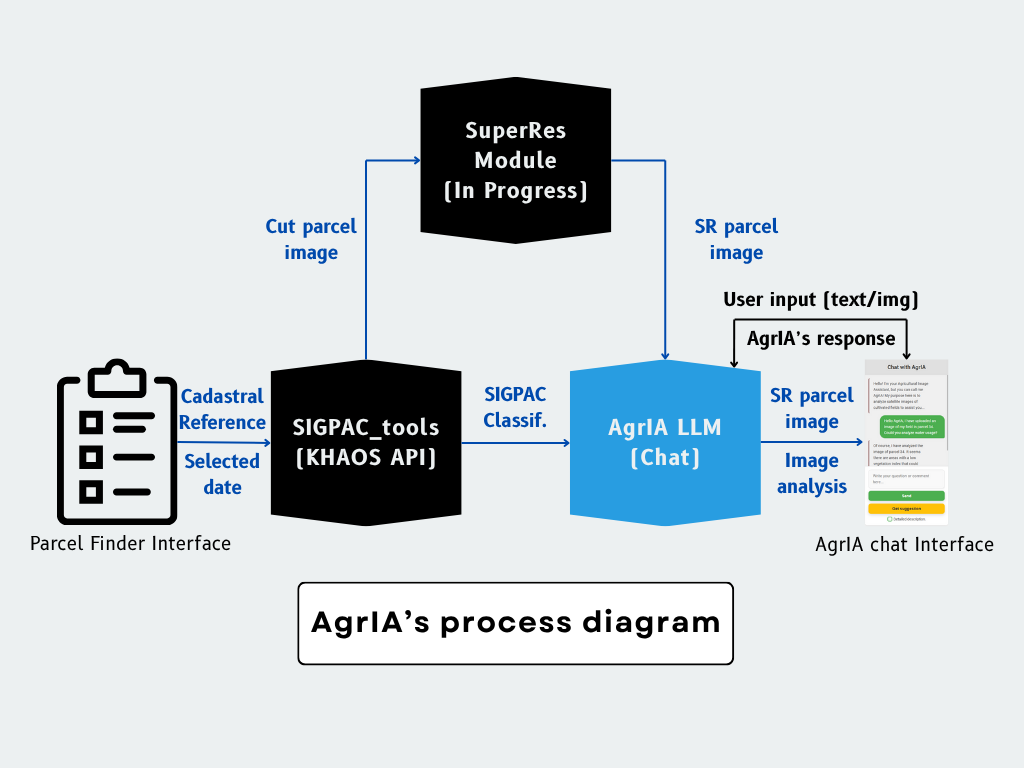
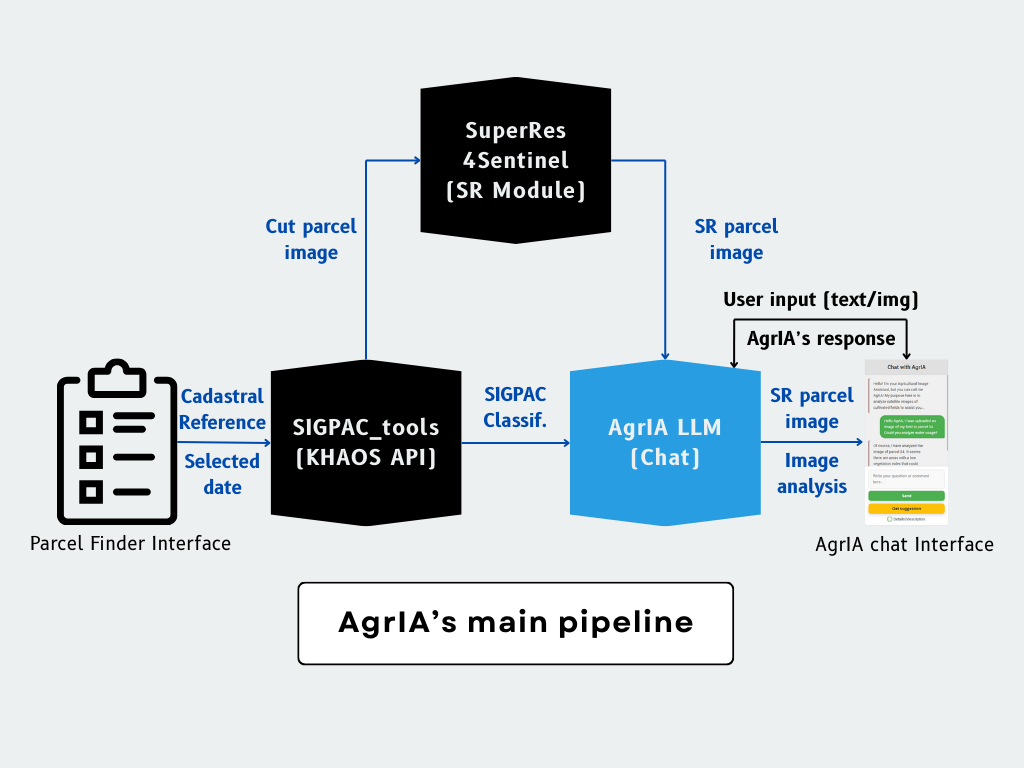
Updated README + CHANGELOG + Added img assets

Changed region(s): [[0.3125, 0.7812, 0.7188, 0.8438], [0.4375, 0.1875, 0.5625, 0.2812]]

diff --git a/README.md b/README.md
@@ -1,10 +1,20 @@
 # Agricultural Imaging Assistant (AgrIA)
 
 <div align="center">
-  <img src="./AgrIA_UI/public/img/logo.png" alt="AgrIA Logo" width="300"/>
+  <img src="./assets/img/logo.png" alt="AgrIA Logo" width="300"/>
 </div>
 
-The Agricultural Imaging Assistant (AgrIA) is an AI-powered tool that combines image analysis and classification with real time LLM commentary and interaction. Its main purpose is to assess crop satellite images and help farmers and landowners qualify for Common Agriculture Policies subventions. It leverages an Angular-based frontend and a FLAS Python server logic along with access to Google's Gemini LLM provided an API key.
+The Agricultural Imaging Assistant (AgrIA) is an AI-powered tool that combines image analysis and classification with real time LLM commentary and interaction. Its main purpose is to assess crop satellite images and help farmers and landowners qualify for EU's Common Agriculture Policies subventions. 
+
+It leverages an Angular-based frontend and a FLASK Python server logic along with access to Google's Gemini LLM provided an API key and a Super-Resolution module for improved image visualization.
+
+## Main features:
+- **Parcel Location:** Automatically find your parcel by simply using its cadastral reference, address or drawing/locating it in the map interface.
+- **Image Super-Resolution:** Improved 10m/px image resolution up to 5m/px thanks to the [SuperRes4Sentinel](https://github.com/MiguelPadillaR/SuperRes4Sentinel.git) implementation of a [L1BSR](https://github.com/centreborelli/L1BSR) pre-trained model.
+- **Satellite Image Analysis:** Get an accurate description of your fields from Sentinel satellite images that provide a detailed view of the terrain.
+- **Resource Analysis:** Receive personalized recommendations for efficient space utilization, crop species, and other resources.
+- **CAP Advisory:** Get expert guidance on how to meet Common Agricultural Policy subsidy criteria.
+- **Interactive Support:** Interact with AgrIA through chat and receive updated answers about your crops.
 
 ## Requirements:
 In order to run `AgrIA` properly, you will need the following:
@@ -12,13 +22,6 @@ In order to run `AgrIA` properly, you will need the following:
 - `Conda` package manager (installment guide available at [conda.io](https://docs.conda.io/projects/conda/en/latest/user-guide/install/index.html)).
 - `Node.js` and `npm` (download tutorial available at [npmjs.com](https://docs.npmjs.com/downloading-and-installing-node-js-and-npm)).
 - `Angular CLI` (easy to get if you have `npm` by just using `npm install -g @angular/cli`).
-
-## Main features:
-- **Parcel Location**: Automatically find your parcel by simply using its cadastral reference.
-- **Satellite Image Analysis**: Get an accurate description of your fields from Sentinel satellite images that provide a detailed view of the terrain.
-- **Resource Analysis**: Receive personalized recommendations for efficient space utilization, crop species, and other resources.
-- **CAP Advisory**: Get expert guidance on how to meet Common Agricultural Policy subsidy criteria.
-- **Interactive Support**: Interact with AgrIA through chat and receive updated answers about your crops.
 
 ## Quickstart:
 ### Cloning this repository:
@@ -39,34 +42,47 @@ cd AgrIA_UI
 npm install
 ng serve
 ```
-3. Setup and run the backend:
+3. Open a new terminal window to setup and run the backend:
 ```bash
-cd AgrIA_server
-conda env create -f environment.yml
+cd /AgrIA_server
+conda env create -f environment.yml -y
 conda activate agria_server_env
 python run.py
 ```
 Everything should be up and running at `http://localhost:4200`, which is the default port. If you are using another one (by running `ng serve XXXX`), make sure to update the `AgrIA_server/.env` file.
 
-## AgrIA's process:
-This diagram details the dataflow throughtout AgrIA`s processes, from user input to image analysis and classification:
+## AgrIA's pipeline:
+In order to find the parcel, users have 3 options:
+- **Use Cadastral data:** Only the cadastrals code is required. AgrIA will retrieve the parcel's image and metadata with crop info.
+- **Use Location data:** Fill out the address input fields (provinde, municipality, etc...) and Agria will automatically fetch the necessary data.
+- **Use Geographical data:** Whether the user clicks on their parcel and uses the coordinates or draws the outlines on the map, AgrIA will return the image, but **it will not automatically get the crop classification data. The user must manually fill out that information** before retrieving the parcel's image.
+
+The following diagram details AgrIA`s parcel finding pipeline when both image and metadata are returned.:
 
 <img src="./assets/img/AgrIA_diagram.png" alt="AgrIA's process Diagram" style="display: block; margin-left: auto; margin-right: auto;">
 
 ### Diagram explanation
-1. User provides the cadastral reference code and selects the date they want the image to be taken from.
+1. User provides the cadastral reference code/parcel location data and selects the date they want the image to be taken from.
+
 2. These two parameters are passed to the `sigpac_tools` API:
     - The API finds the parcel and gets the GeoJSON geometry and its metadata.
-    - The geometry is used to locate the parcel in the dowloaded Sentinel tiles available for the selected date and returns a cut image of the parcel.
-    - The metadata contains the SIGPAC crop classification that is formatted into a prompt for the AgrIA model.
-3. The cut image of the parcel is passed to the SuperRes module, to improve image resolution for a better assesment and improved crop evaluation (IN PROGRESS).
+    - The geometry is used to locate the parcel and dowload the Sentinel tiles available for the selected date.
+    - The metadata contains the SIGPAC crop classification that is formatted into a prompt recognisible for the AgrIA LLM.
+
+3. A crop containing the parcel geometry is made out of the downloaded Sentinel tiles and the SuperRes4Sentinel implementation uses the pre-trained module to upscale it to a better resolution (10m/px --> 5m/px). See example:
+
+![](https://raw.githubusercontent.com/MiguelPadillaR/AgrIA/assets/examples/01.png)
+
 4. Both the formatted SIGPAC crop classification and the super-resolved image are passed in a single prompt to the model.
     - The model leverages the provided text info with the visual data.
     - The model uses its context documents and system instructions to provide the output of a specific format.
+
 5. All of the SIGPAC info, super-resolved image and prompt output is then passed to the *Chat* view, where the user can see the final result.
     - Users may also interact with follow-up propmts in the same conversation.
-### WARNING: Using the Chat for parcel evaluation:
-**Using the *Parcel Finder*** view leads to retrieving the parcel's image and SIGPAC's crop classification and data, resulting in **a much more accurate evaluation of the parcel** and a more fruitful user interaction. **However, the user may interact directly with the chat,** without going through the *Parcel finder* in order to solve other type of agriculture-related issues. Nevertheless, **if the user wants to analyze their state by manually uploading a picture,** AgrIA will return a rough description of what's show and will **prompt the user for more information in order to improve analysis precision.** The model expects to be provided information about the crop types and each parcel's admisible surface. As shown in the diagram, this process is automated when using the *Parcel finder* view.
+
+
+>### WARNING: Using the Chat for parcel image evaluation:
+>**Using the *Parcel Finder*** view leads to retrieving the parcel's image and SIGPAC's crop classification and data, resulting in **a much more accurate evaluation of the parcel** and a more fruitful user interaction. **However, the user may interact directly with the chat,** without going through the *Parcel finder* module in order to solve other type of agriculture-related issues. Nevertheless, **if the user wants to analyze their state by manually uploading a picture,** AgrIA will return a rough description of what's shown and will **prompt the user for more information in order to improve analysis precision.** The model expects to be provided information about the crop types and each parcel's admisible surface. As shown in the diagram, this process is automated when using the *Parcel finder* view.
 <details>
 <summary style="font-size: larger; font-weight: bold;">
 About contributing to this repository

diff --git a/CHANGELOG.md b/CHANGELOG.md
@@ -5,6 +5,7 @@
 - **Integrated Finder & Drawer:** Improved workflow for parcel discovery and custom geometry drawing, with data sharing between components.
 - **UI Enhancements:** New tabbed layout for parcel tools, improved validation, and better state handling across forms.
 - **Server Enrichment:** Backend now supports geometry + SIGPAC metadata parsing, with improved error handling and enriched responses.
+- **Image Super-Resolution:** Sentinel 10m images are now improved and displayed at 5m resolution after procesisng.
 
 ---
 
@@ -32,10 +33,11 @@
 ---
 
 ## 🖥 Server-Specific Changes
+- Implemented SR module into image retrieval pipeline.
 - New routes for enriched parcel geometry + SIGPAC handling.
 - Extended validation pipeline with more detailed error feedback.
 - Integrated LLM-based description enrichment into server responses.
-
+ 
 # 📝 Changelog – Version 1.1 (July 2025)
 
 ### 🚀 New Features
